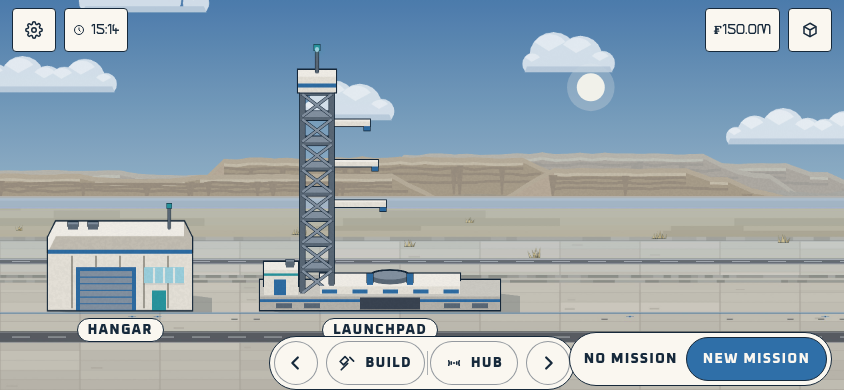
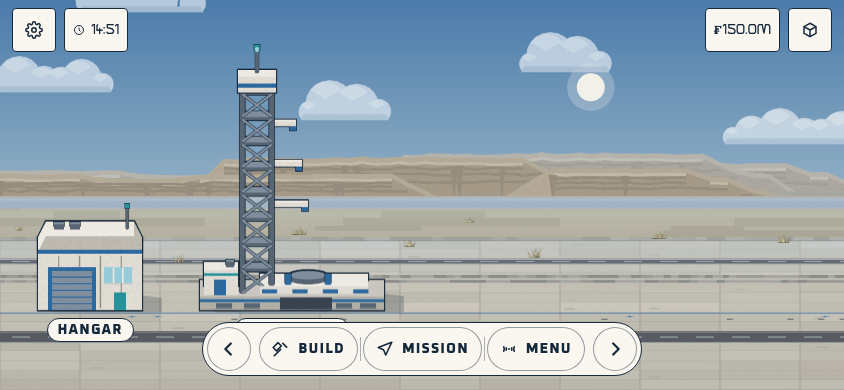
🌌🪨 ↝ [SSL-617]: Mining seams read clearly with name pills above the ground and dimmed scenery, native terrain is uneven, and the coach strip shares the top row

diff --git a/native/App/Scenes/MiningScene.swift b/native/App/Scenes/MiningScene.swift
@@ -175,7 +175,8 @@ final class MiningScene: SKScene {
         let tone = tops.indices.map { hash($0, 4, seed) - 0.5 }
         let topP = max(2, w / 18)
         return pixelTexture(width: w, height: h) { x, y in
-            let rim = 1 + wrapNoise(CGFloat(x), cell: CGFloat(w) / CGFloat(topP), period: topP, seed: seed + 91) * 3
+            // Uneven crust: slow swells plus a ragged 3-column jitter, so the surface is never a ruler edge.
+            let rim = 1 + wrapNoise(CGFloat(x), cell: CGFloat(w) / CGFloat(topP), period: topP, seed: seed + 91) * 8 + hash(x / 3, 5, seed) * 3
             let fy = CGFloat(y)
             if fy < rim { return nil }
             var layer = 0
@@ -378,6 +379,7 @@ final class MiningScene: SKScene {
         world.addChild(far)
         world.addChild(mid)
         surfaceDeposits.zPosition = 2
+        surfaceDeposits.alpha = 0.3   // scenery: dimmed so only the labelled seams read as targets
         world.addChild(surfaceDeposits)
         world.addChild(near)
         world.addChild(ground)
@@ -427,7 +429,7 @@ final class MiningScene: SKScene {
                 node.yScale = px * CGFloat(p.scale) * ts
                 node.position = CGPoint(x: CGFloat(c) * midW + CGFloat(p.x) * px, y: surfaceY - 4 - (Landscape.pieceHeight[p.kind] ?? 48) * 0.04 * px)
                 node.color = LaserPalette.sk(Self.legible(layout.tint))
-                node.colorBlendFactor = CGFloat(layout.shade)
+                node.colorBlendFactor = max(CGFloat(layout.shade), 0.55)
                 mid.addChild(node)
             }
             for d in layout.deposits {

diff --git a/web/app/globals.css b/web/app/globals.css
@@ -3047,6 +3047,10 @@ html[data-flight-target]:not([data-flight-target~="hub-build-btn"]) [data-testid
   pointer-events: none;
 }
 .flight-plan-slot > * { pointer-events: auto; }
+/* Wide enough to share the top row: sit between the gear/clock/help cluster and the francs chips, so the strip never covers Back, target or stat cards below. */
+@media (min-width: 600px) {
+  .flight-plan-slot { top: calc(env(safe-area-inset-top, 0px) + 6px); left: 200px; right: 170px; }
+}
 /* On wide and landscape screens the launch review keeps its plan strip at the top, so the coach strip moves to the bottom instead of covering it. */
 @media (min-width: 701px), (orientation: landscape) {
   body:has([data-testid="mission-launch-review"]) .flight-plan-slot { top: auto; bottom: 156px; }

diff --git a/web/lib/engine/scripts/MiningController.ts b/web/lib/engine/scripts/MiningController.ts
@@ -837,7 +837,8 @@ export class MiningController extends ScriptBehaviour {
     const surface = this.opts.surfaceY ?? SURFACE_Y
     const parts = blobParts(mineral, oreIndex)
     const chip = this.opts.chipFill != null ? this.createChip(x, surface, mineral, parts) : null
-    const labelY = chip ? surface - 50 : y + (frames && this.opts.pixelScale ? 12 : 0)
+    // Name pills ride in the sky band just above the ground line (never in the soil, where the HUD lives); lanes stack them upward when seams bunch.
+    const labelY = chip ? surface - 50 : surface - 24
     const label = this.createLabel(mineral, x, labelY, radius)
 
     this.gameObject.addChild(go)

diff --git a/web/lib/mining/laserLayers.ts b/web/lib/mining/laserLayers.ts
@@ -322,6 +322,7 @@ export async function buildLaserField(opts: {
       const tex = depositTex[d.kind]
       tex.source.scaleMode = 'nearest'
       const node = new Sprite(tex)
+      node.alpha = 0.3   // scenery: dimmed so only the labelled seams read as targets
       node.anchor.set(0.5, 1)
       node.scale.set(px)
       node.x = c * midW + d.x * px
